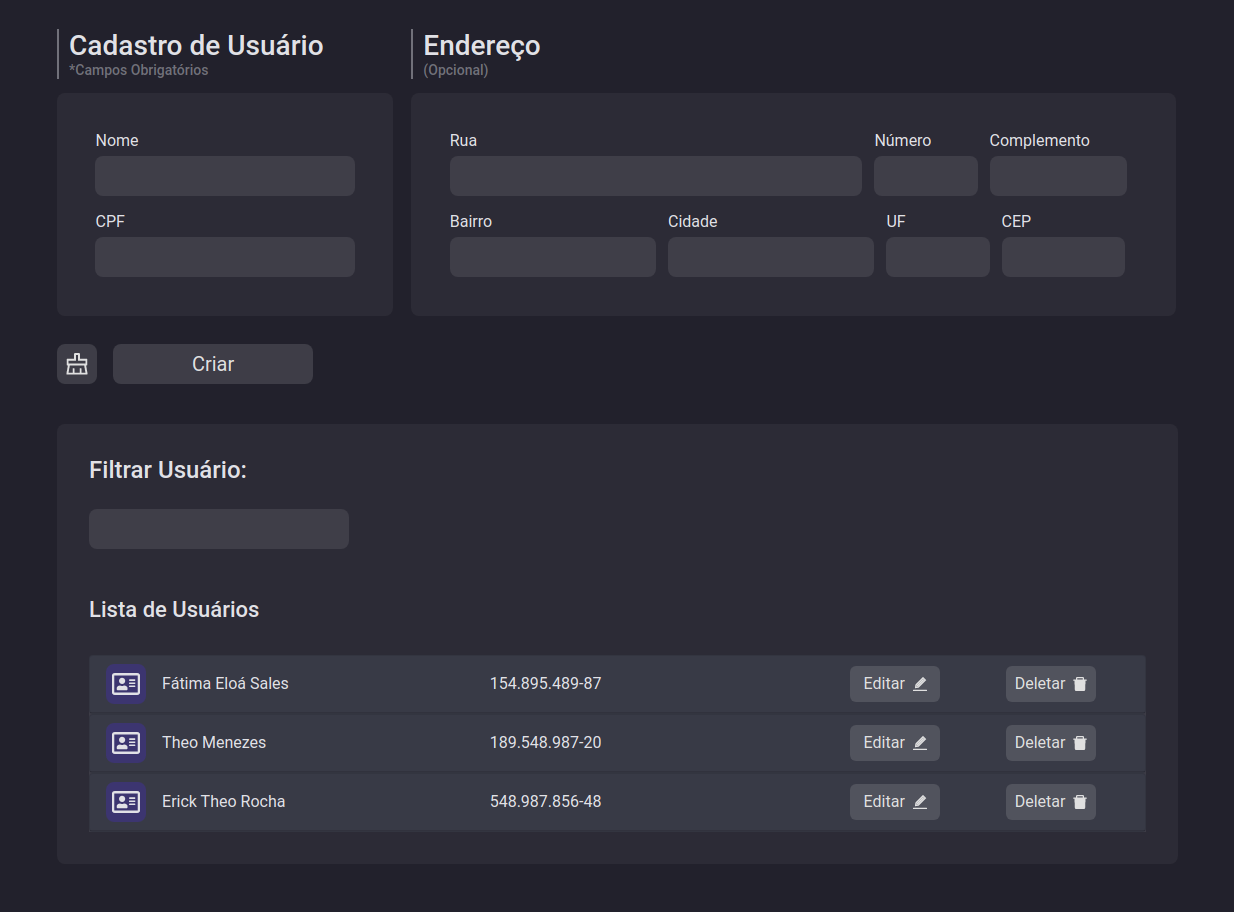
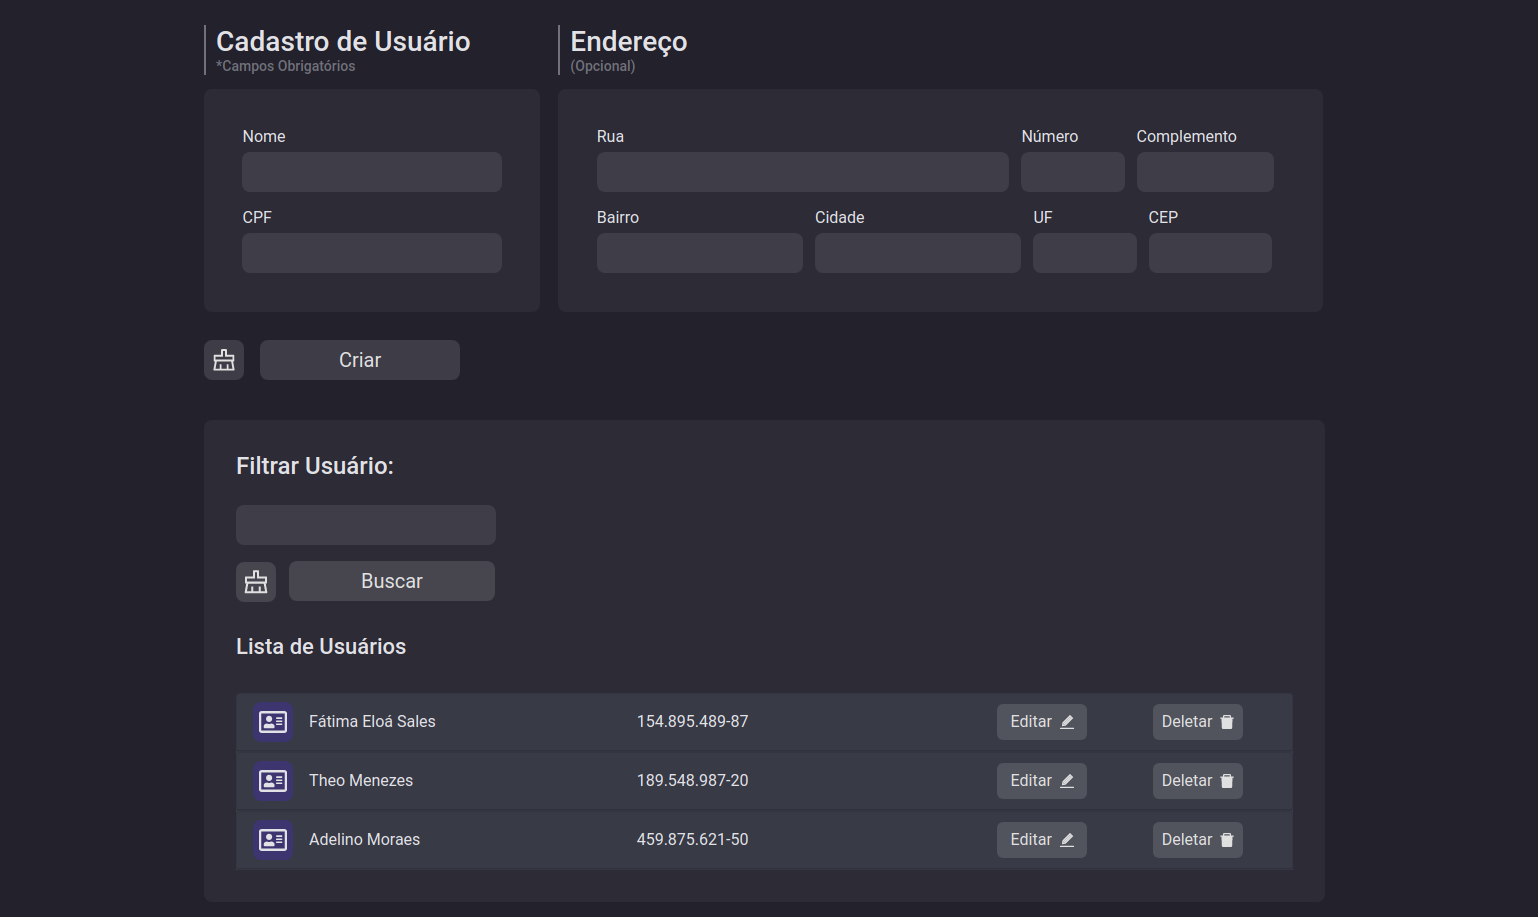
estilizando botoes de filtro | atualizando imagem do layout para readme | comentando e removendo excessos do codigo

diff --git a/src/components/Form/ButtonsForm/ButtonsForm.tsx b/src/components/Form/ButtonsForm/ButtonsForm.tsx
@@ -45,7 +45,6 @@ export function ButtonsForm({ functions, stateButtons }: buttonsFormProps) {
             />
 
             :
-
             <>
               <Button
                 type='update'
@@ -57,7 +56,6 @@ export function ButtonsForm({ functions, stateButtons }: buttonsFormProps) {
 
                     <Button
                       title="Inserir Outro Endereço"
-
                       type='updateAddress'
                       action={functions.handleInputsNewAddress}
                     />
@@ -73,7 +71,6 @@ export function ButtonsForm({ functions, stateButtons }: buttonsFormProps) {
 
                     <Button
                       title="Realizar Cadastro"
-
                       type='updateAddress'
                       action={functions.addNewAddress}
                     />

diff --git a/src/components/Buttons/buttons.module.scss b/src/components/Buttons/buttons.module.scss
@@ -1,6 +1,4 @@
 .button {
-  background-color: rgba(221, 23, 23, 0.144);
-
   border-radius: 6px;
   border: none;
 
@@ -11,6 +9,7 @@
 .createUser {
   &:hover {
     background-color: #38a169 !important;
+    color: white;
   }
 }
 
@@ -18,6 +17,7 @@
   transition: background 0.3s;
 
   &:hover {
+    color: white;
     background-color: #196caf !important;
   }
 }
@@ -43,6 +43,7 @@
   transition: background 0.3s;
 
   &:hover {
+    color: white;
     background-color: #196caf !important;
   }
 }

diff --git a/src/components/Table/table.module.scss b/src/components/Table/table.module.scss
@@ -124,7 +124,7 @@
 
   .editar {
     &:hover {
-      background-color: #196caf;
+      background-color: #2b6cb0;
     }
   }
 
@@ -198,13 +198,18 @@
     transition: background 0.3s;
 
     &:hover {
-      filter: brightness(0.8);
+      background-color: #f84343d3;
     }
 
     & + button {
       width: 206px;
       height: 40px;
       margin-left: 0.8rem;
+
+      &:hover {
+        color: white;
+        background-color: #2b6cb0;
+      }
     }
   }
 }

diff --git a/src/components/Table/Table.tsx b/src/components/Table/Table.tsx
@@ -78,7 +78,7 @@ export function Table({ users, showUserData, showAddress, handleAddressId, delet
 
       <div className={styles.usersContent}>
 
-        <Accordion className={styles.customAccordion} flush>
+        <Accordion className={styles.customAccordion}>
 
           {
             usersFiltered.map(data => (

diff --git a/src/service/fuctions.ts b/src/service/fuctions.ts
@@ -21,7 +21,7 @@ export function selectAddress(listUsers, userId, addressId) {
 
 
 
-//Mascara de Input
+//Mascaras de Input
 export function maskInputCpf(event: React.FormEvent<HTMLInputElement>) {
   let value = event.currentTarget.value;
   value = value.replace(/\D/g, "");

diff --git a/src/components/Form/Form.tsx b/src/components/Form/Form.tsx
@@ -13,6 +13,7 @@ import { FormUser } from './FormUser/ FormUser'
 interface FormProps {
   users: user[],
   addressDefault: addressProps,
+
   userActive: user,
   addressActive: {
     userId: string,
